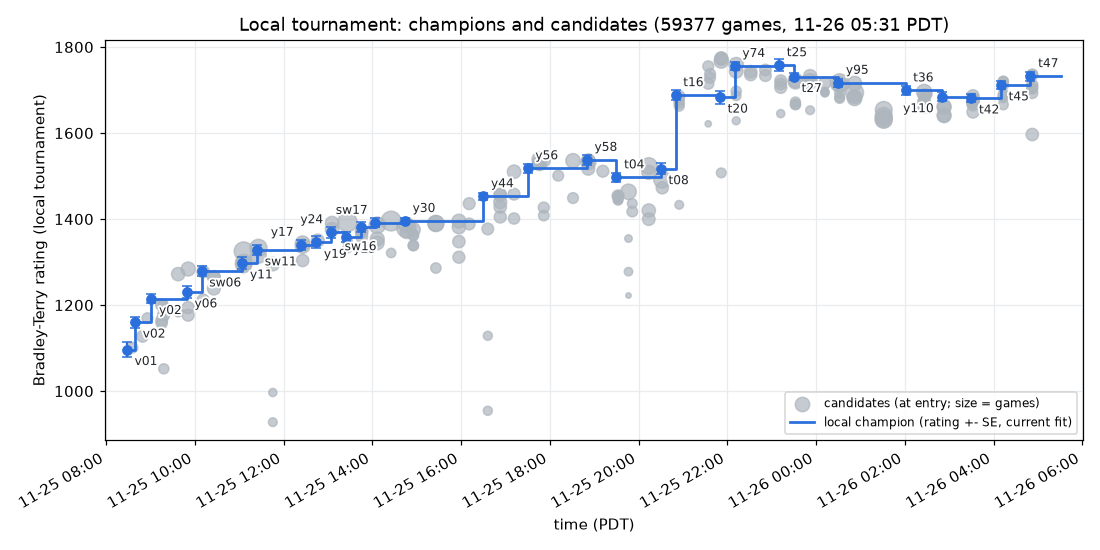
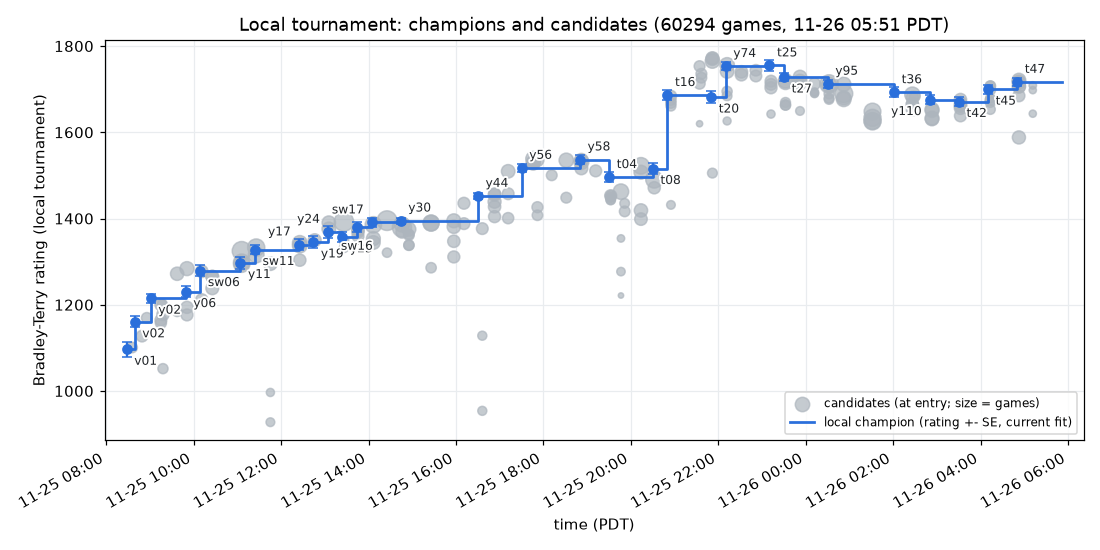
prod: retire t52, y139
Claude-Session: https://claude.ai/code/session_01SzziPSCWtjsjju9cnThDf5

diff --git a/progress/local-elo.md b/progress/local-elo.md
@@ -1,12 +1,12 @@
 # Local tournament Elo
 
-Bradley-Terry ratings of our own bots in the local tournament (`tools/tourney.py`), all 59377 games in one fit as of 2026-11-26 05:31 PDT, so every point is on the same scale; earlier champions are shown at their current rating, and "Gain" is the rating over the champion it replaced. `tools/tourney.py rank` rewrites this table; `tools/tourney.py chart` also redraws the chart.
+Bradley-Terry ratings of our own bots in the local tournament (`tools/tourney.py`), all 60294 games in one fit as of 2026-11-26 05:51 PDT, so every point is on the same scale; earlier champions are shown at their current rating, and "Gain" is the rating over the champion it replaced. `tools/tourney.py rank` rewrites this table; `tools/tourney.py chart` also redraws the chart.
 
 ![local elo](local-elo.png)
 
 | Champion from (PDT) | Bot | Change on base | Submission | Rating +- SE | Gain | Games |
 |---|---|---|---:|---:|---:|---:|
-| 2026-11-25 08:28 | v01 | foundation bot |  | 1097 +- 18 |  | 435 |
+| 2026-11-25 08:28 | v01 | foundation bot |  | 1096 +- 18 |  | 435 |
 | 2026-11-25 08:39 | v02 | nav wall-follow fix + bytecode guards on v01 | #6 | 1160 +- 13 | +64 | 801 |
 | 2026-11-25 09:01 | y02 | paint-heavy tower mix + paint towers upgraded first on v02 | #7 | 1215 +- 11 | +55 | 1080 |
 | 2026-11-25 09:49 | y06 | 3 opening soldiers instead of 2 on y02 | #35 | 1230 +- 13 | +16 | 700 |
@@ -14,25 +14,25 @@ Bradley-Terry ratings of our own bots in the local tournament (`tools/tourney.py
 | 2026-11-25 11:04 | y11 | mid-game mix 3 moppers per 6 (soldier mopper splasher mopper soldier mopper) on sw06 | #37 | 1298 +- 14 | +19 | 655 |
 | 2026-11-25 11:24 | sw11 | at most 1 helper soldier per ruin (more ruins claimed in parallel) on y11 | #38 | 1328 +- 11 | +30 | 1159 |
 | 2026-11-25 12:24 | y17 | sw11 + moppers prefer enemies within r2 25 of our towers (sw12) on sw11 | #39 | 1340 +- 12 | +12 | 871 |
-| 2026-11-25 12:44 | y19 | sw11 with soldiers joining an occupied ruin only when adjacent (r2<=2) on y17 | #40 | 1346 +- 14 | +6 | 678 |
+| 2026-11-25 12:44 | y19 | sw11 with soldiers joining an occupied ruin only when adjacent (r2<=2) on y17 | #40 | 1345 +- 14 | +6 | 678 |
 | 2026-11-25 13:04 | y24 | y17 with mopper defence widened (DEFEND_R2 36 / bonus 80) on y19 | #41 | 1369 +- 13 | +23 | 679 |
 | 2026-11-25 13:24 | y25 | y19 (adjacent-only ruin helping) + y17 tower-defending moppers on y24 | #42 | 1358 +- 12 | -11 | 898 |
 | 2026-11-25 13:44 | sw16 | y25 + soldier siege: with no ruin and paint>=80 kite a known enemy tower within r2 64 on y25 | #43 | 1381 +- 11 | +23 | 976 |
 | 2026-11-25 14:04 | sw17 | y28 (siege from 50 paint r2 100) + splasher siege (towers weigh 40; walk to known tower within r2 100 at paint>=100) on sw16 | #44 | 1391 +- 10 | +10 | 1110 |
 | 2026-11-25 14:44 | y30 | y28 with soldier siege from 30 paint within r2 144 (no splasher siege) on sw17 | #45 | 1395 +- 7 | +4 | 2377 |
-| 2026-11-25 16:30 | y44 | study 3 tactic 3 (enemy refill policy): return at 50% paint (soldier 100/splasher 100/mopper 40) + end-of-turn top-up from any adjacent ally tower on y30 | #46 | 1453 +- 8 | +57 | 2250 |
-| 2026-11-25 17:30 | y56 | study 3 tactic 4 (tower churn): a drained L1 money tower with intact pattern and an ally adjacent disintegrates at >=2000 chips; adjacent robots re-complete it for a fresh 500 paint on y44 | #47 | 1518 +- 10 | +65 | 1320 |
+| 2026-11-25 16:30 | y44 | study 3 tactic 3 (enemy refill policy): return at 50% paint (soldier 100/splasher 100/mopper 40) + end-of-turn top-up from any adjacent ally tower on y30 | #46 | 1452 +- 8 | +57 | 2250 |
+| 2026-11-25 17:30 | y56 | study 3 tactic 4 (tower churn): a drained L1 money tower with intact pattern and an ally adjacent disintegrates at >=2000 chips; adjacent robots re-complete it for a fresh 500 paint on y44 | #47 | 1517 +- 10 | +65 | 1320 |
 | 2026-11-25 18:50 | y58 | study 3 tactic 2 (early soldiers paint patterns not coverage): exploring soldiers paint no coverage before r50 on y56 | #48 | 1537 +- 11 | +19 | 997 |
-| 2026-11-25 19:30 | t04 | t02 (no coverage painting before r80) + t03 (units wait beside drained money towers and repair their pattern so churn fires; study 3 tactics 2 and 4) on y58 | #49 | 1497 +- 11 | -41 | 1065 |
-| 2026-11-25 20:30 | t08 | study 4 2.2 (contested ruins): soldiers skip a ruin with enemy paint in its visible 5x5 (bad for 50 rounds) on t04 | #50 | 1517 +- 13 | +20 | 738 |
-| 2026-11-25 20:50 | t16 | t12 (t08 + study 4 2.1 spawn freeze 8 rounds in 20 below 1000+cost) + study 4 2.4 money-first: builds money until 8 towers then paint while paint towers < n/5; paint first only if none (all towers known) on t08 | #51 | 1688 +- 11 | +171 | 1169 |
-| 2026-11-25 21:50 | t20 | study 4 2.3: splashers weight enemy towers 30 (was 12) in the splash score on t16 | #52 | 1683 +- 15 | -5 | 587 |
-| 2026-11-25 22:10 | y74 | unit audit (owner prompt #15): splash-grid bug fix (enemy tiles never scored) + moppers stop once enemy paint is in mop reach; built on t16 on t20 | #53 | 1756 +- 10 | +72 | 1255 |
-| 2026-11-25 23:10 | t25 | unit audit + top teams' unit mix (616 S / 662 X / 701 M): after r80 paint towers cycle soldier-splasher-mopper; money towers keep S M X M S M on y74 | #54 | 1758 +- 13 | +2 | 680 |
-| 2026-11-25 23:30 | t27 | top teams' splasher-heavy late mix pushed further: paint towers cycle soldier-splasher-splasher-mopper after r80 on t25 | #55 | 1731 +- 9 | -27 | 1554 |
-| 2026-11-26 00:30 | y95 | upgrade spare 1200 (was 800): chips stay for new towers longer on t27 | #56 | 1717 +- 9 | -15 | 1822 |
-| 2026-11-26 02:01 | t36 | late SRPs (study 4 2.6 / study 3 tactic 7): soldiers without a ruin build SRPs on the x%4==2 y%4==2 lattice from r100 with chips>=1000; splashers avoid repainting SRP secondary tiles on y95 | #57 | 1699 +- 11 | -18 | 977 |
-| 2026-11-26 02:50 | y110 | money towers upgrade only with 2500 chips beyond the cost+spare (was 1000): chips go to new towers and SRPs on t36 | #58 | 1684 +- 10 | -15 | 1260 |
-| 2026-11-26 03:30 | t42 | study 4 3.1 recovery: with every tower known and no money tower left the next ruin is a money tower on y110 | #59 | 1681 +- 10 | -3 | 1332 |
-| 2026-11-26 04:10 | t45 | study 3 tactic 1: after r40 towers spawn only with 1000 chips beyond the unit's cost (no 600-chip window) on t42 | #60 | 1712 +- 10 | +31 | 1226 |
-| 2026-11-26 04:50 | t47 | study 3 tactic 5: a mopper due in the cycle spawns even below the 1000 reserve when an enemy robot is within d2 20 of the tower on t45 | #61 | 1732 +- 10 | +20 | 1155 |
+| 2026-11-25 19:30 | t04 | t02 (no coverage painting before r80) + t03 (units wait beside drained money towers and repair their pattern so churn fires; study 3 tactics 2 and 4) on y58 | #49 | 1496 +- 11 | -41 | 1065 |
+| 2026-11-25 20:30 | t08 | study 4 2.2 (contested ruins): soldiers skip a ruin with enemy paint in its visible 5x5 (bad for 50 rounds) on t04 | #50 | 1516 +- 13 | +20 | 738 |
+| 2026-11-25 20:50 | t16 | t12 (t08 + study 4 2.1 spawn freeze 8 rounds in 20 below 1000+cost) + study 4 2.4 money-first: builds money until 8 towers then paint while paint towers < n/5; paint first only if none (all towers known) on t08 | #51 | 1686 +- 11 | +171 | 1169 |
+| 2026-11-25 21:50 | t20 | study 4 2.3: splashers weight enemy towers 30 (was 12) in the splash score on t16 | #52 | 1682 +- 15 | -5 | 587 |
+| 2026-11-25 22:10 | y74 | unit audit (owner prompt #15): splash-grid bug fix (enemy tiles never scored) + moppers stop once enemy paint is in mop reach; built on t16 on t20 | #53 | 1753 +- 10 | +72 | 1255 |
+| 2026-11-25 23:10 | t25 | unit audit + top teams' unit mix (616 S / 662 X / 701 M): after r80 paint towers cycle soldier-splasher-mopper; money towers keep S M X M S M on y74 | #54 | 1755 +- 13 | +2 | 680 |
+| 2026-11-25 23:30 | t27 | top teams' splasher-heavy late mix pushed further: paint towers cycle soldier-splasher-splasher-mopper after r80 on t25 | #55 | 1728 +- 9 | -27 | 1554 |
+| 2026-11-26 00:30 | y95 | upgrade spare 1200 (was 800): chips stay for new towers longer on t27 | #56 | 1713 +- 9 | -15 | 1822 |
+| 2026-11-26 02:01 | t36 | late SRPs (study 4 2.6 / study 3 tactic 7): soldiers without a ruin build SRPs on the x%4==2 y%4==2 lattice from r100 with chips>=1000; splashers avoid repainting SRP secondary tiles on y95 | #57 | 1693 +- 11 | -20 | 977 |
+| 2026-11-26 02:50 | y110 | money towers upgrade only with 2500 chips beyond the cost+spare (was 1000): chips go to new towers and SRPs on t36 | #58 | 1676 +- 10 | -17 | 1260 |
+| 2026-11-26 03:30 | t42 | study 4 3.1 recovery: with every tower known and no money tower left the next ruin is a money tower on y110 | #59 | 1671 +- 10 | -4 | 1332 |
+| 2026-11-26 04:10 | t45 | study 3 tactic 1: after r40 towers spawn only with 1000 chips beyond the unit's cost (no 600-chip window) on t42 | #60 | 1700 +- 10 | +29 | 1226 |
+| 2026-11-26 04:50 | t47 | study 3 tactic 5: a mopper due in the cycle spawns even below the 1000 reserve when an enemy robot is within d2 20 of the tower on t45 | #61 | 1717 +- 9 | +17 | 1525 |
